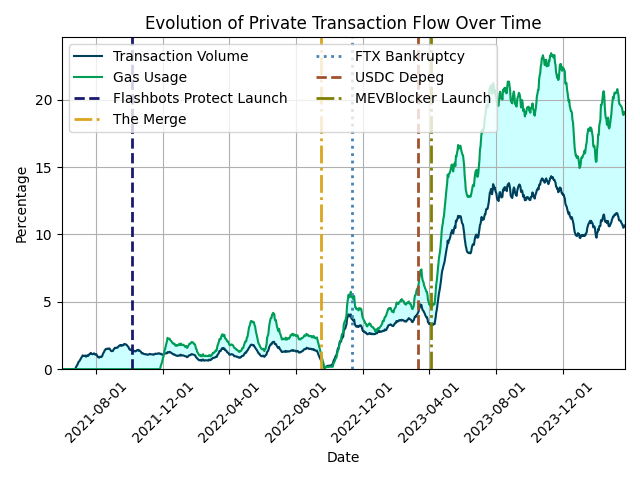
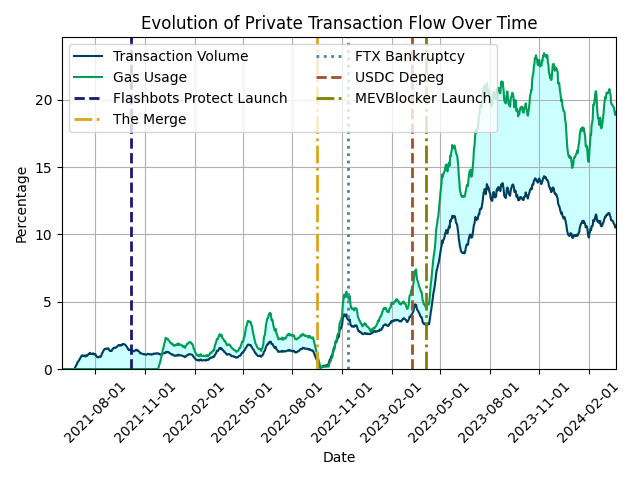
section 5 month locator to 3

diff --git a/section_5/5.1_private_big_picture/5.1.1_private_tx/private_pct.py b/section_5/5.1_private_big_picture/5.1.1_private_tx/private_pct.py
@@ -6,8 +6,7 @@ from scipy.stats import pearsonr, spearmanr
 def load_and_prepare_data(filepath):
     data = pd.read_csv(filepath)
     data['block_date'] = pd.to_datetime(data['block_date'])
-    filtered_data = data[(data['block_date'] >= pd.Timestamp('2021-05-31')) & 
-                        (data['block_date'] <= pd.Timestamp('2024-04-01'))]
+    filtered_data = data[(data['block_date'] >= pd.Timestamp('2021-05-31')) & (data['block_date'] <= pd.Timestamp('2024-04-23'))]
     return filtered_data
 
 def aggregate_data(data):
@@ -29,12 +28,14 @@ def plot_data(data_by_date, filepath):
     plt.title('Evolution of Private Transaction Flow Over Time')
     plt.xlabel('Date')
     plt.ylabel('Percentage')
-    plt.xlim(left=data_by_date['block_date'].min() - pd.Timedelta(days=1), right=data_by_date['block_date'].max() + pd.Timedelta(days=1))
+    # plt.xlim(left=data_by_date['block_date'].min(), right=data_by_date['block_date'].max())
     plt.ylim(0)
 
     ax = plt.gca()
-    ax.xaxis.set_major_locator(mdates.MonthLocator(interval=4))
+    ax.xaxis.set_major_locator(mdates.MonthLocator(interval=3))
     ax.xaxis.set_major_formatter(mdates.DateFormatter('%Y-%m-%d'))
+    ax.set_xlim(left=data_by_date['block_date'].min(), right=data_by_date['block_date'].max())
+
 
     significant_dates = {
         '2021-10-06': ('midnightblue', '--', 'Flashbots Protect Launch'),
